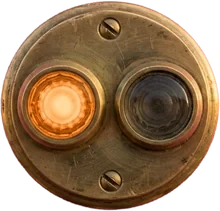
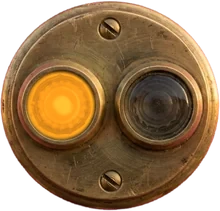
Studio: lamps glow like uranium glass
The panel lenses, the switch lamp and the lamp jar's bulb now glow
evenly in saturated colour, brightest at the facets and rim, with no
white-hot centre, and the light they cast is a coloured neon halo.
Amber by day, blue by night, as before.

Claude-Session: https://claude.ai/code/session_0195hiXiVZY5DpQ2CCYEr2vL

Changed region(s): [[0.1091, 0.3412, 0.4636, 0.6825]]

diff --git a/studio/table/table.css b/studio/table/table.css
@@ -29,7 +29,7 @@
 .p-jar .on{opacity:0;transition:opacity 1.6s ease}
 .p-jar.lit .on{opacity:1;animation:breathe 5.5s ease-in-out infinite}
 .p-jar .glow{position:absolute;left:50%;top:50%;width:260%;aspect-ratio:1;translate:-50% -50%;border-radius:50%;pointer-events:none;
-  background:radial-gradient(circle,rgba(255,170,70,.35),rgba(255,140,40,.12) 35%,transparent 65%);mix-blend-mode:screen;opacity:0;transition:opacity 1.6s ease}
+  background:radial-gradient(circle,rgba(255,158,30,.5),rgba(255,158,30,.22) 22%,rgba(255,158,30,.08) 42%,transparent 65%);mix-blend-mode:screen;opacity:0;transition:opacity 1.6s ease}
 .p-jar.lit .glow{opacity:.45;animation:breathe 5.5s ease-in-out infinite}
 .night .p-jar.lit .glow{opacity:1}
 .night .p-jar img{filter:drop-shadow(.4cqi .5cqi .5cqi rgba(10,4,0,.6)) brightness(.8)}
@@ -40,8 +40,8 @@
 .p-panel .on,.p-panel .on2{opacity:0;transition:opacity 1.2s ease}
 .table:not(.night) .p-panel .on,.night .p-panel .on2{opacity:1}
 .p-panel .glow{position:absolute;left:27.5%;top:49.7%;width:120%;aspect-ratio:1;translate:-50% -50%;border-radius:50%;pointer-events:none;mix-blend-mode:screen;opacity:.75;
-  background:radial-gradient(circle,rgba(255,180,80,.45),rgba(255,150,50,.12) 30%,transparent 60%);transition:left 1.2s ease,background 1.2s ease}
-.night .p-panel .glow{left:72.3%;opacity:.9;background:radial-gradient(circle,rgba(130,190,255,.5),rgba(110,170,255,.14) 30%,transparent 60%)}
+  background:radial-gradient(circle,rgba(255,158,30,.7) 15%,rgba(255,158,30,.3) 23%,rgba(255,158,30,.1) 38%,transparent 58%);transition:left 1.2s ease,background 1.2s ease}
+.night .p-panel .glow{left:72.3%;opacity:.95;background:radial-gradient(circle,rgba(70,150,255,.75) 15%,rgba(70,150,255,.32) 23%,rgba(70,150,255,.1) 38%,transparent 58%)}
 
 /* a print: one of your photos inside the blank print, with the print's own light and curl over it */
 .p-print{display:grid}
@@ -105,8 +105,8 @@
   font:700 clamp(8px,.85vw,11px)/1 "Courier New",Courier,monospace;letter-spacing:.14em;color:#3d3022;opacity:.82;pointer-events:none}
 .sw-top{top:10.95%} .sw-bottom{top:64.44%}
 .sw-glow{position:absolute;left:70.8%;top:43.6%;width:120%;aspect-ratio:1;translate:-50% -50%;border-radius:50%;pointer-events:none;mix-blend-mode:screen;
-  background:radial-gradient(circle,rgba(255,180,80,.45),rgba(255,150,50,.12) 30%,transparent 60%);transition:background .4s ease}
-.st-switch.is-night .sw-glow{background:radial-gradient(circle,rgba(130,190,255,.5),rgba(110,170,255,.14) 30%,transparent 60%)}
+  background:radial-gradient(circle,rgba(255,158,30,.6) 9%,rgba(255,158,30,.26) 16%,rgba(255,158,30,.08) 30%,transparent 52%);transition:background .4s ease}
+.st-switch.is-night .sw-glow{background:radial-gradient(circle,rgba(70,150,255,.65) 9%,rgba(70,150,255,.28) 16%,rgba(70,150,255,.09) 30%,transparent 52%)}
 .st-switch.turning .sw-glow{animation:sw-blink .45s ease}
 @keyframes sw-blink{0%{opacity:1}35%{opacity:0}100%{opacity:1}}
 @media (max-width:640px){.st-foot{--h:170px}}

diff --git a/studio/table/index.html b/studio/table/index.html
@@ -7,7 +7,7 @@
 <title>Studio table · test</title>
 <link rel="icon" href="/favicon.svg?v=2" type="image/svg+xml">
 <link rel="stylesheet" href="https://fonts.googleapis.com/css2?family=Nunito:wght@600;800&display=swap">
-<link rel="stylesheet" href="table.css?v=12">
+<link rel="stylesheet" href="table.css?v=13">
 </head>
 <body class="table-page">
 <main>

diff --git a/studio/index.php b/studio/index.php
@@ -35,7 +35,7 @@ $in = studio_logged_in();
 <link rel="preconnect" href="https://fonts.googleapis.com">
 <link rel="stylesheet" href="https://fonts.googleapis.com/css2?family=Nunito:wght@600;800&display=swap">
 <link rel="stylesheet" href="assets/studio.css?v=<?= STUDIO_VERSION ?>-3">
-<link rel="stylesheet" href="table/table.css?v=12">
+<link rel="stylesheet" href="table/table.css?v=13">
 </head>
 <?php if (!$in): ?>
 <body class="login">
